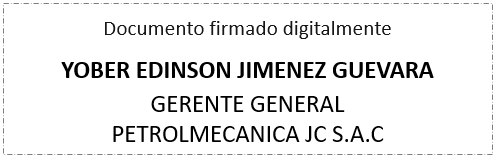
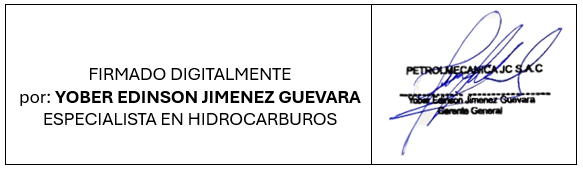
renovacion firma digital

diff --git a/assets/key-bkp/index.html b/assets/key-bkp/index.html
@@ -1,0 +1,11 @@
+<!DOCTYPE html>
+<html>
+<head>
+	<title>403 Forbidden</title>
+</head>
+<body>
+
+<p>Directory access is forbidden.</p>
+
+</body>
+</html>

diff --git a/assets/key/index.html b/assets/key/index.html
@@ -1,0 +1,11 @@
+<!DOCTYPE html>
+<html>
+<head>
+	<title>403 Forbidden</title>
+</head>
+<body>
+
+<p>Directory access is forbidden.</p>
+
+</body>
+</html>

diff --git a/assets/img/index.html b/assets/img/index.html
@@ -1,0 +1,10 @@
+<html>
+<head>
+	<title>403 Forbidden</title>
+</head>
+<body>
+
+<p>Directory access is forbidden.</p>
+
+</body>
+</html>

diff --git a/assets/img_lm/index.html b/assets/img_lm/index.html
@@ -1,0 +1,10 @@
+<html>
+<head>
+	<title>403 Forbidden</title>
+</head>
+<body>
+
+<p>Directory access is forbidden.</p>
+
+</body>
+</html>

diff --git a/assets/img_logos/index.html b/assets/img_logos/index.html
@@ -1,0 +1,10 @@
+<html>
+<head>
+	<title>403 Forbidden</title>
+</head>
+<body>
+
+<p>Directory access is forbidden.</p>
+
+</body>
+</html>

diff --git a/assets/js/index.html b/assets/js/index.html
@@ -1,0 +1,10 @@
+<html>
+<head>
+	<title>403 Forbidden</title>
+</head>
+<body>
+
+<p>Directory access is forbidden.</p>
+
+</body>
+</html>

diff --git a/assets/themes/index.html b/assets/themes/index.html
@@ -1,0 +1,10 @@
+<html>
+<head>
+	<title>403 Forbidden</title>
+</head>
+<body>
+
+<p>Directory access is forbidden.</p>
+
+</body>
+</html>

diff --git a/application/controllers/Documentaciones.php b/application/controllers/Documentaciones.php
@@ -140,6 +140,44 @@ class Documentaciones extends MY_Controller {
         $this->load->view('grocery_crud/basic_crud', (array)$output ) ;
     }
 
+    public function detalle_documentacion()
+    {
+        $this->metodo = 'Lista';//Siempre define las migagas de pan
+
+        $crud = new grocery_CRUD();
+        $crud->set_table('detalle_documentacion');
+
+        $crud->required_fields('dato_iddato','documentacion_iddocumentacion' );
+
+        $crud->set_relation('dato_iddato', 'dato','descripcion');
+        $crud->set_relation('documentacion_iddocumentacion','documentacion','nro_documento');
+
+        $crud->unset_texteditor(array('valor','full_text'));
+
+        //$crud->display_as('priority','Orden');
+        //$crud->columns('descripcion','documentacion_iddocumentacion', 'valor');
+        $crud->unset_delete();
+        $crud->unset_add();
+        //$crud->unique_fields(array(''));}
+
+        $crud->order_by('orden','desc');
+        $crud->order_by('documentacion_iddocumentacion','desc');
+
+        $crud->callback_after_update(function ($post_array, $primary_key) {
+            $fecha_hora = date('Y-m-d H:i:s');
+            $valores = implode(', ', $post_array);
+            $log_message = "[$fecha_hora] id: $primary_key - Valores: $valores";
+            file_put_contents('public\log_upd_det_doc.txt', $log_message . PHP_EOL, FILE_APPEND);
+            return true;
+        });
+
+        $output = $crud->render();
+        $output->title = 'Detalle de Documento';
+
+        $this->_init(true,true,true);//Carga el tema ( $cargar_menu, $cargar_url, $cargar_template )
+        $this->load->view('grocery_crud/basic_crud', (array)$output ) ;
+    }
+
     public function add()
     {
         

diff --git a/application/libraries/Pdf_documentacion.php b/application/libraries/Pdf_documentacion.php
@@ -34,7 +34,9 @@ class Pdf_documentacion extends TCPDF
         $this->certificate_path = $MY_controller->certificate_path;
         $this->primaryKey_path = $MY_controller->primaryKey_path;
         $this->import_key = $MY_controller->import_key;
-        $this->sello_firma_path = $MY_controller->sello_firma_path; 
+        $this->sello_firma_path = $MY_controller->sello_firma_path;
+
+        //echo  $this->certificate_path; die();
     }
 
     public $motivo = 'documentacion';
@@ -171,12 +173,13 @@ class Pdf_documentacion extends TCPDF
 
     public function add_firma_digital() {
 
+
         $certificate = 'file://'.realpath($this->certificate_path);
         $primaryKey = 'file://'.realpath($this->primaryKey_path);
-        $import_key = $this->import_key; //'Edinjigue03109001';//'colbert1234';
+        $import_key = 'file://'.realpath($this->import_key); //$this->import_key; //'Edinjigue03109001';//'colbert1234';//'file://'.realpath('assets/key/C240726108234.key');
         $sello_firma_path = $this->sello_firma_path;// 'assets/img/firma_petrolmecanicajc.png';
         
-        $sello_firma_tamanio_porcentaje = 0.14;
+        $sello_firma_tamanio_porcentaje = 0.18;
         $sello_firma_ancho_tamanio = 497 * $sello_firma_tamanio_porcentaje;
         $sello_firma_altura_tamanio = 159 * $sello_firma_tamanio_porcentaje;
         $sello_firma_pos_x = 110;        

diff --git a/application/core/MY_Controller.php b/application/core/MY_Controller.php
@@ -67,8 +67,8 @@ class MY_Controller extends CI_Controller {
             "direccion_adicional" =>'Calle San francisco nro. 435 - urb. las palmeras - Jaen - Cajamarca',
             "contacto" =>'Cel.978833002 | Correos: edinson@petrolmecanicajc.com,  petrolmecanica.jc@gmail.com',
             "rubro" =>'Venta al por mayor de otros tipos de maquinaria y equipo <br> Fabricación de productos metalicos para uso estructural',
-            "certificate_path" =>'assets/key/C22080467303.crt',
-            "primaryKey_path" =>'assets/key/C22080467303.pem',
+            "certificate_path" =>'assets/key-bkp/C22080467303.crt',
+            "primaryKey_path" =>'assets/key-bkp/C22080467303.pem',
             "import_key" =>'Edinjigue03109001',
             "sello_firma_path" =>'assets/img/firma_petrolmecanicajc.png',
             "icono_sistema" =>'assets/img/icono_sistema.png'

diff --git a/application/models/Det_documentacion.php b/application/models/Det_documentacion.php
@@ -101,7 +101,7 @@ class Det_documentacion extends CI_Model {
 
         $this->db->join('datos_documentacion dat_doc', ' doc.serie_comprobante_idserie_comprobante = dat_doc.iddocumento AND dat_doc.iddato = detc.dato_iddato ', 'left'); // datos_documentacion da el formato de impresion 
 
-        
+        $this->db->where('detc.estado','Activo');
         $this->db->where('detc.documentacion_iddocumentacion',$iddocumentacion);
     
         $this->db->order_by('detc.orden','ASC');

diff --git a/application/libraries/Grocery_CRUD.php b/application/libraries/Grocery_CRUD.php
@@ -5360,6 +5360,12 @@ class Grocery_CRUD extends grocery_CRUD_States
 		return $this;
 	}
 
+	public function set_relation_cct($field_name , $field_name_related_table , $related_table, $related_title_field, $where_clause = null, $order_by = null)
+	{
+		$this->relation[$field_name_related_table] = array($field_name, $related_table,$related_title_field, $where_clause, $order_by);
+		return $this;
+	}
+
 	/**
 	 *
 	 * Sets a relation with n-n relationship.
